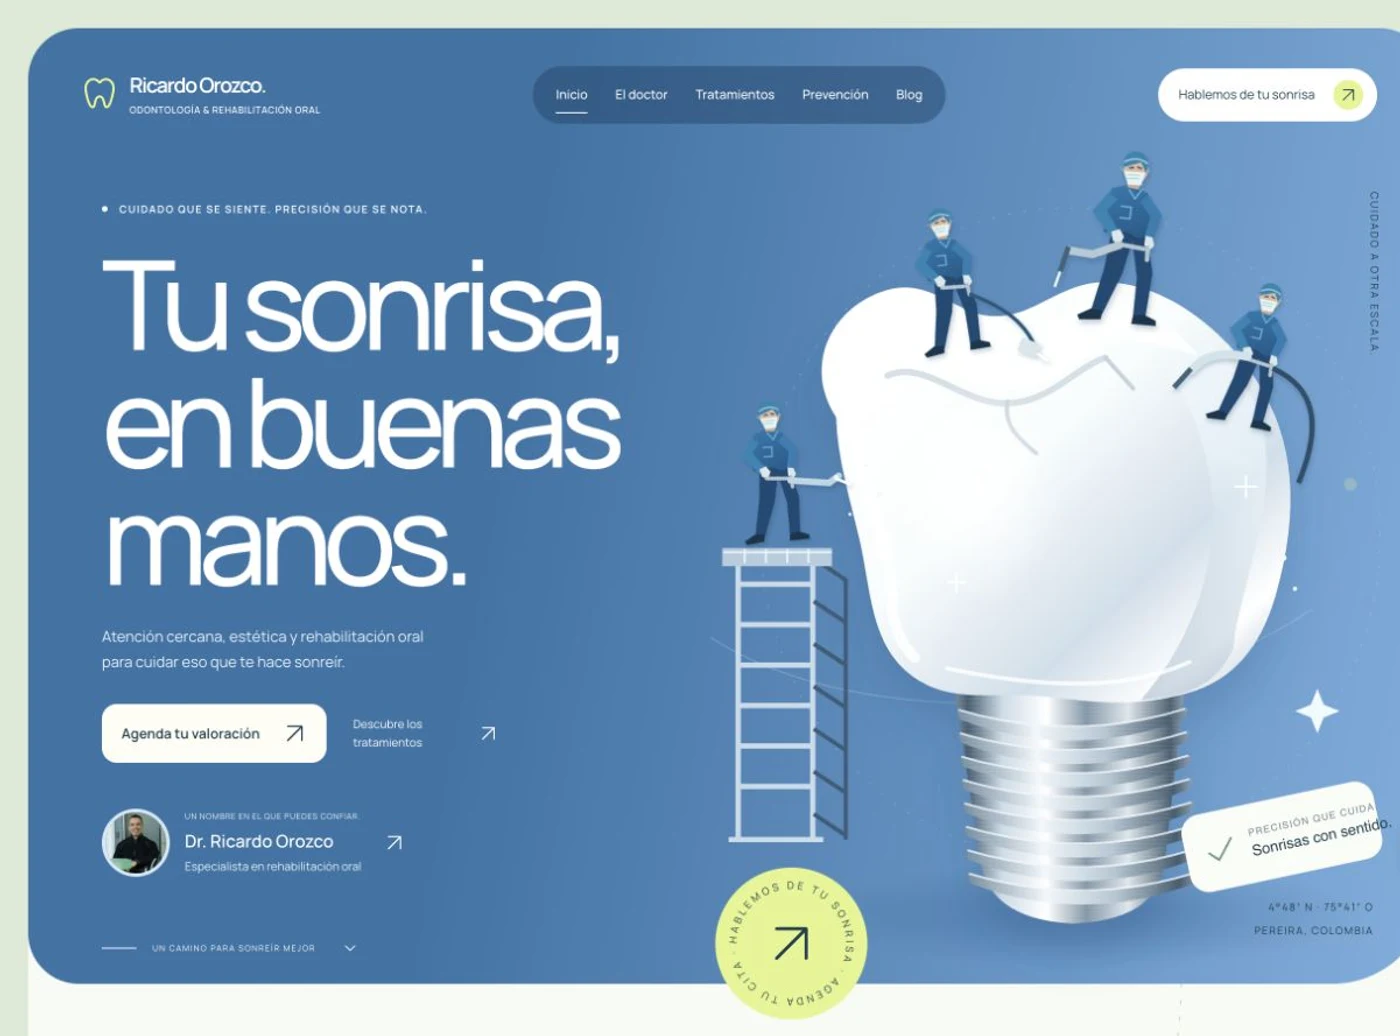
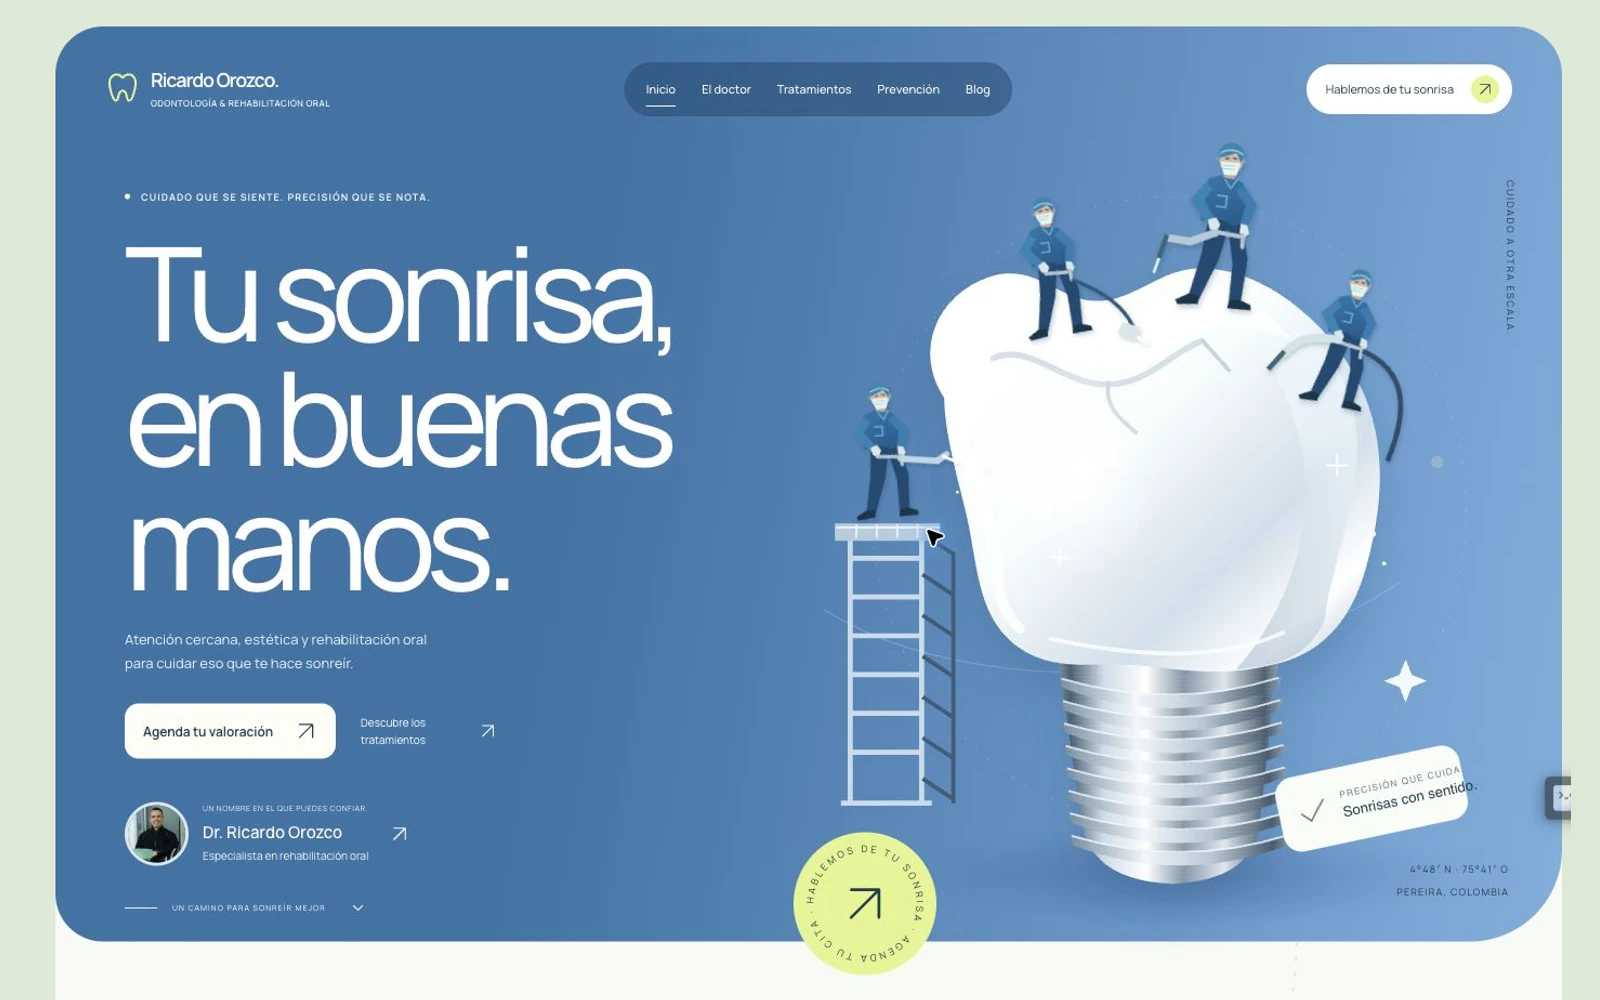
Muestra completa la portada de Ricardo Orozco sin recortes

Changed region(s): [[0.0, 0.0, 1.0, 1.0], [0.3686, 0.062, 0.6757, 0.124]]

diff --git a/src/components/portfolio/project-showcase.css b/src/components/portfolio/project-showcase.css
@@ -280,6 +280,10 @@
   transform: scale(1.012);
 }
 
+.showcase-screen:hover img[src$="/ricardo-orozco.webp"] {
+  transform: none;
+}
+
 .showcase-screen-link {
   position: absolute;
   bottom: 18px;
